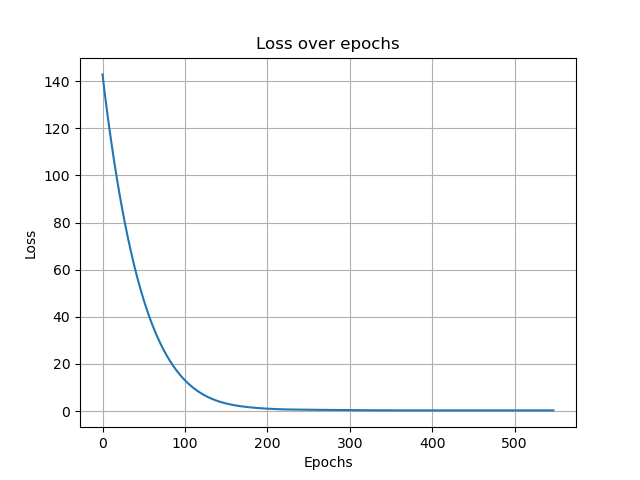
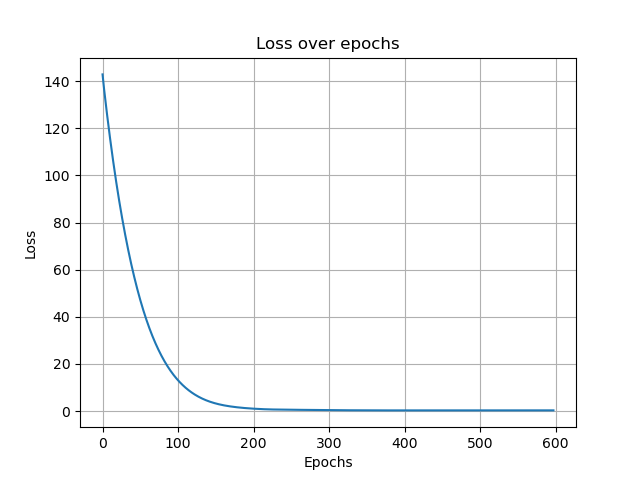
updates

diff --git a/exp_syn_data.py b/exp_syn_data.py
@@ -10,14 +10,17 @@ if __name__ == "__main__":
 
     #dir = 'exp_train_dict/synthetic_data_v5/'
     dir = 'exp_train_dict/mibici_dataset_4/'
-    #dir_exp = 'exp_train_dict/results_exp_train_dict/experiment_v5_7/'
-    dir_exp = 'exp_train_dict/results_exp_train_dict/experiment_mibici_6/'
+    #dir_exp = 'exp_train_dict/results_exp_train_dict/experiment_v5_3/'
+    dir_exp = 'exp_train_dict/results_exp_train_dict/experiment_mibici_1/'
 
     s_flows = np.load(dir + 'flows_train.npy')
+    #s_flows = np.load(dir + 'flows.npy')
+    print('Shape of synthetic flows:', s_flows.shape)
     #s_dict = np.load(dir + 'dictionary.npy')
     s_dict = np.load(dir + 'laplacian_mibici_4.npy')
 
     learned_dict = np.load(dir_exp + 'dictionary.npy')
+    print('Shape of learned dictionary:', learned_dict.shape)
     learned_weights = np.load(dir_exp + 'weights.npy')
 
     index = args.Index
@@ -53,16 +56,28 @@ if __name__ == "__main__":
     plt.yticks([])
     plt.subplot(2, 2, 3)
     plt.imshow(s_dict, cmap='viridis', interpolation='nearest')
-    #plt.title('Dictionary')
+    #plt.title('Original Dictionary')
     plt.title('Laplacian')
     plt.colorbar()
-    plt.xticks([])
+    plt.xticks([i for i in range(s_dict.shape[1])])
     plt.yticks([])
     plt.subplot(2, 2, 4)
     plt.imshow(learned_dict, cmap='viridis', interpolation='nearest')
     plt.title('Learned Dictionary')
     plt.colorbar()
-    plt.xticks([])
+    plt.xticks([i for i in range(learned_dict.shape[1])])
     plt.yticks([])
+    plt.tight_layout()
+    plt.show()
+
+    n = 300
+    loss = np.load(dir_exp + 'loss.npy')
+    plt.figure(figsize=(10, 5))
+    plt.plot(range(n, len(loss)), loss[n:], label='Loss')
+    plt.title(f'Training Loss since epoch {n}')
+    plt.xlabel('Epochs')
+    plt.ylabel('Loss')
+    plt.legend()
+    plt.grid()
     plt.tight_layout()
     plt.show()
